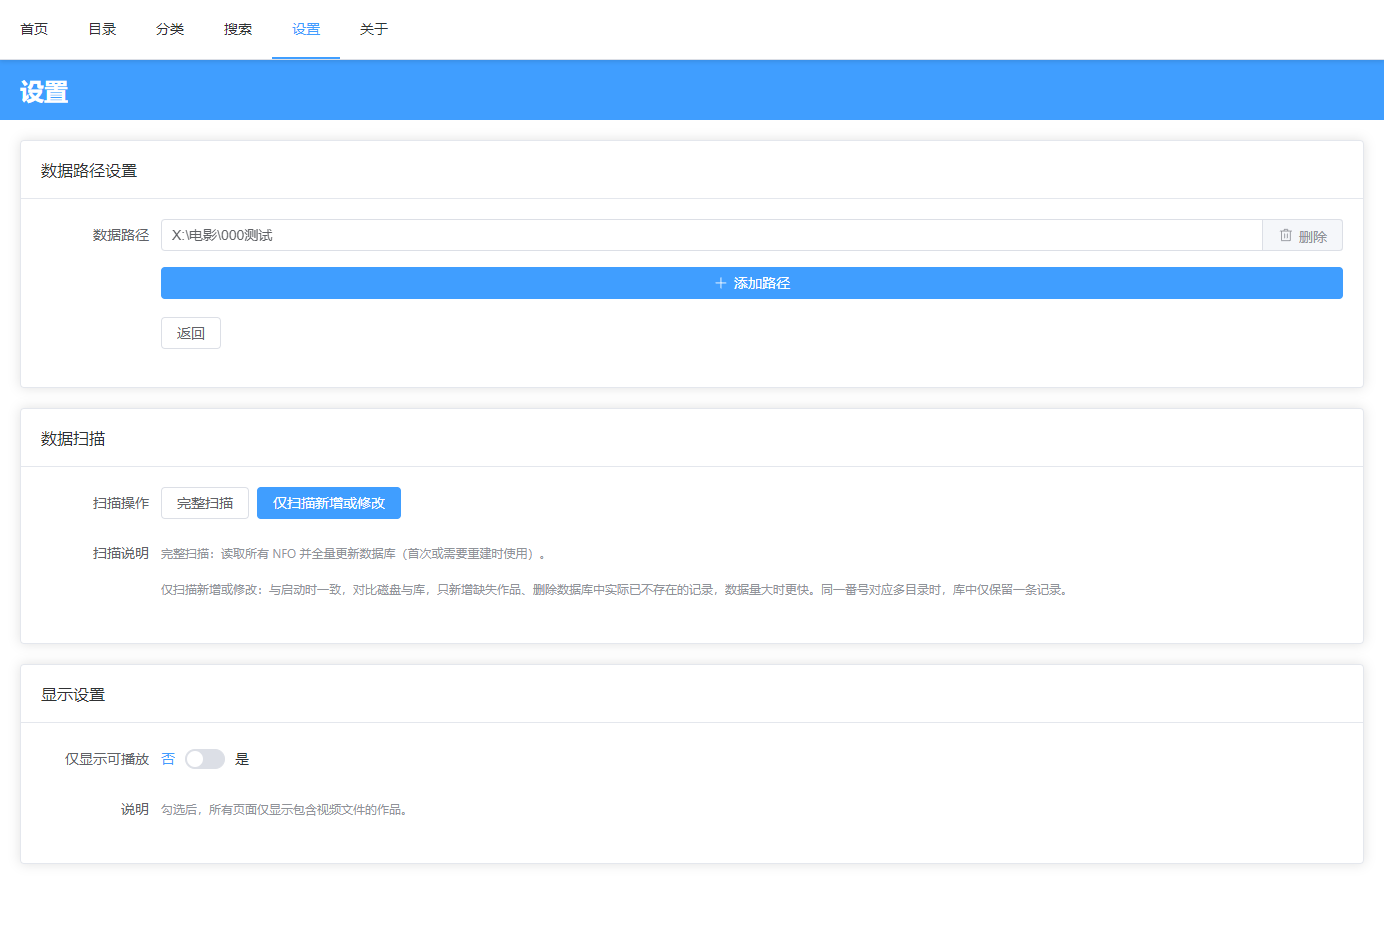
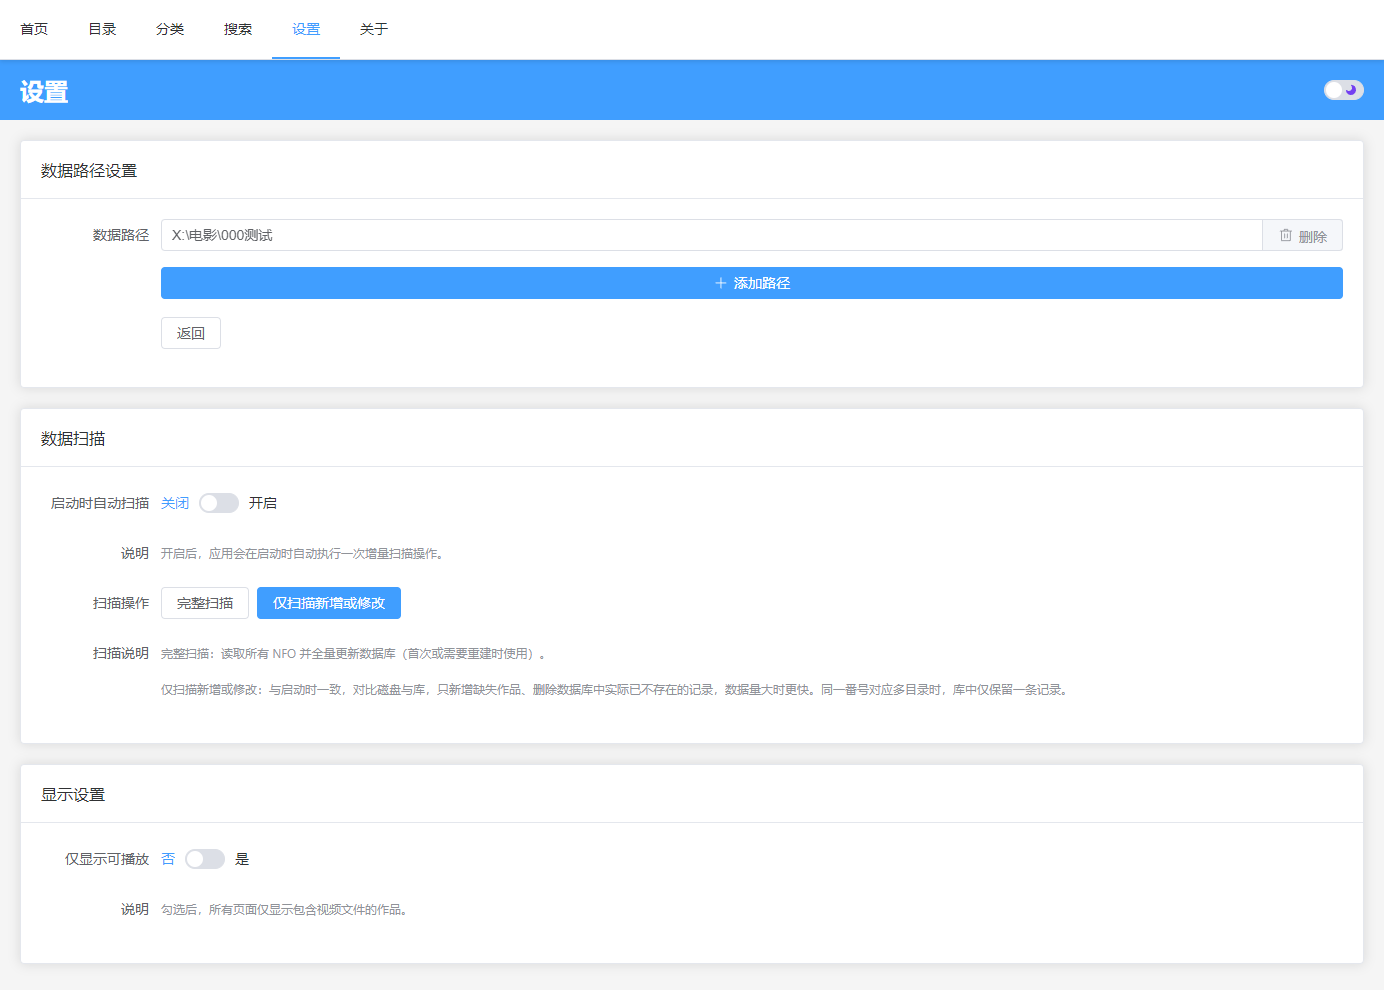
chore: 将 commit_msg.txt 加入 .gitignore，并提交更新后的 README 与截图
Made-with: Cursor

diff --git a/README.md b/README.md
@@ -36,6 +36,12 @@
 ![应用设置](images/JavLibrary-03.png)
 *应用设置*
 
+![夜间模式](images/JavLibrary-05.png)
+*夜间模式*
+
+![缩图模式](images/JavLibrary-06.png)
+*缩图模式*
+
 ## 技术栈
 
 - **Electron**: 跨平台桌面应用框架
